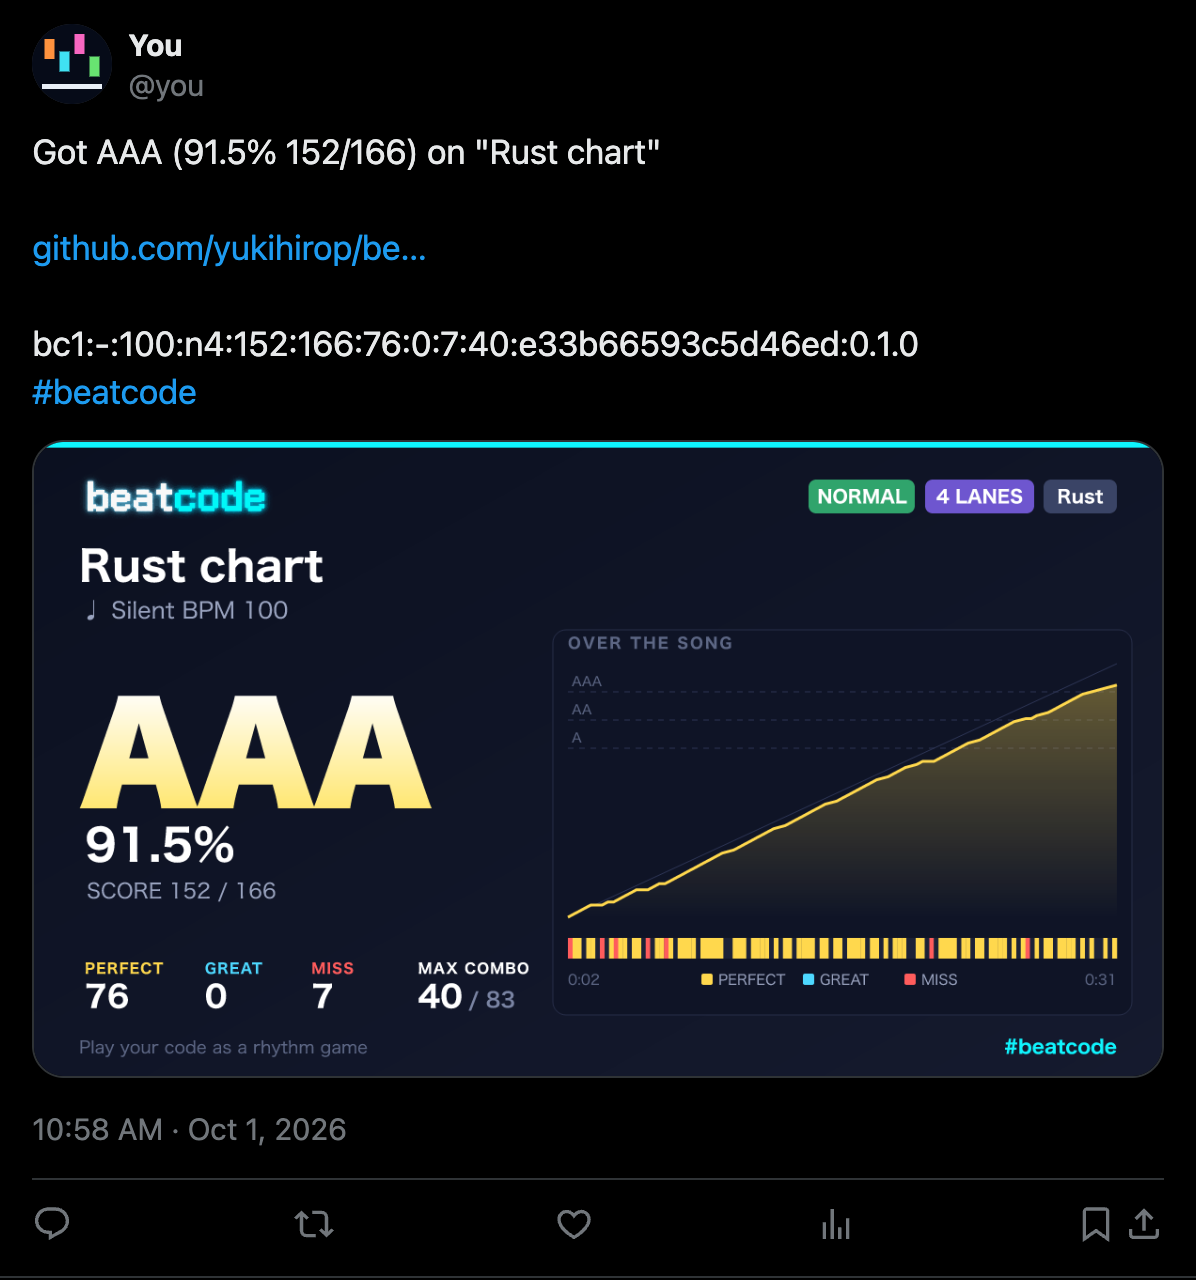
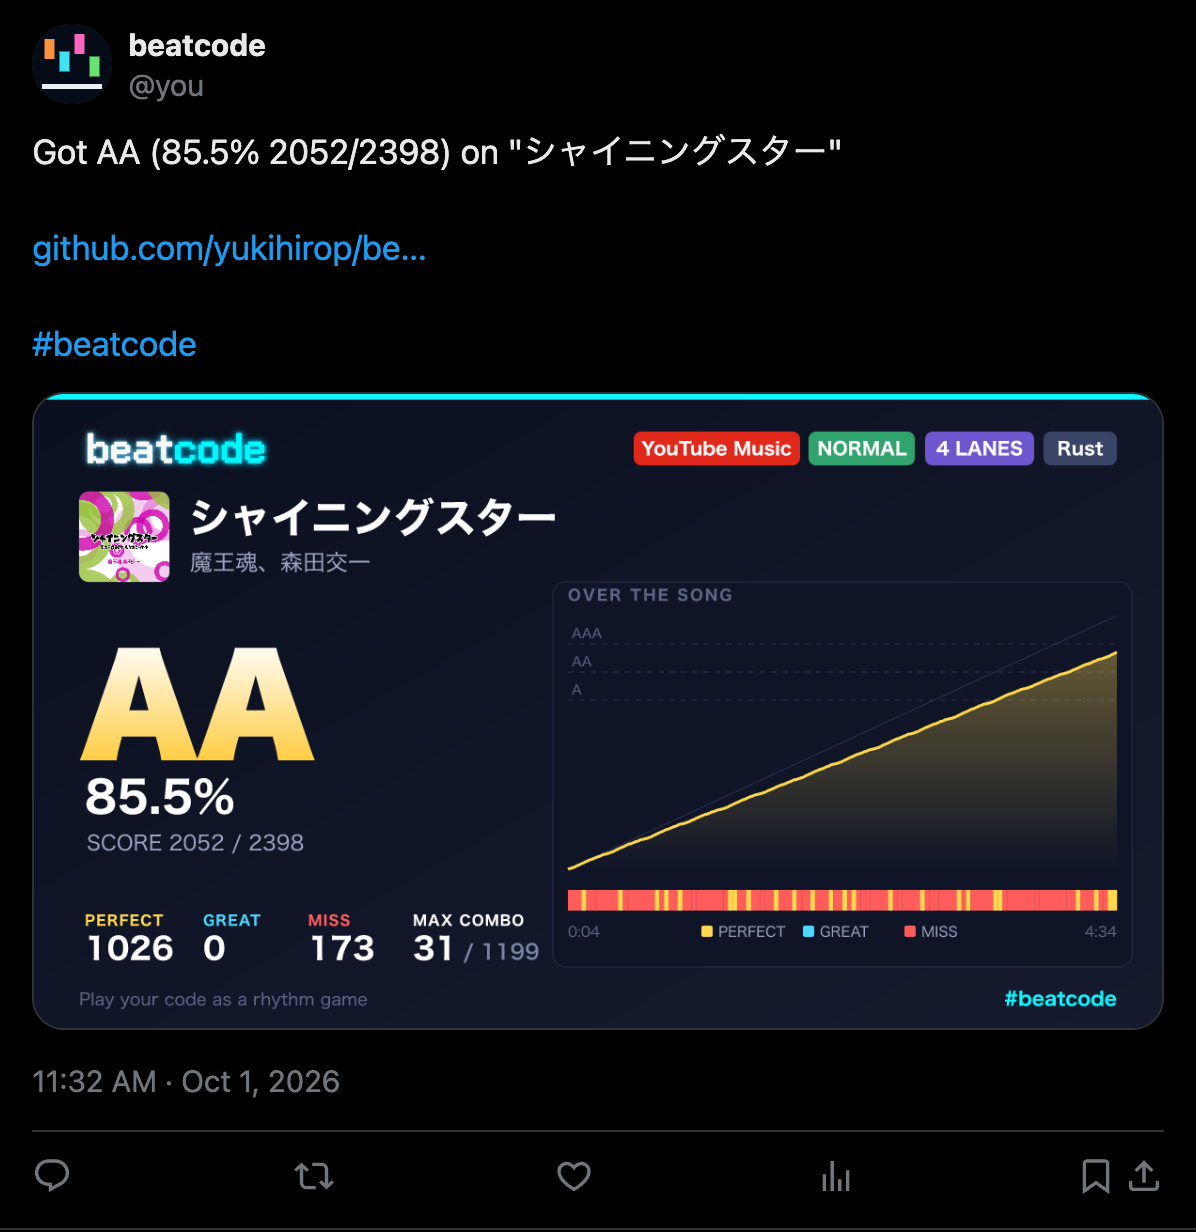
Show a real song on the guide's Share on X card
Play シャイニングスター (魔王魂) through YouTube Music so the card carries
the song title, cover art and the YouTube Music badge. The post is from
"beatcode" and leaves out the ranking line ([share] rank = false).

diff --git a/apps/web/src/i18n/guide.ts b/apps/web/src/i18n/guide.ts
@@ -135,7 +135,7 @@ export const guide: Record<Lang, Guide> = {
         title: "Show it off on X",
         body: [
           "On the results screen, x draws a result card — a 1200×675 PNG with the rank, percentage, judgment counts, graph, difficulty, lanes and language — copies it to the clipboard and opens X’s post page with a draft. Paste the card with ⌘V, then post.",
-          "The draft has the rank and score, the chart’s gist URL, the beatcode URL, a ranking line (bc1:…) and #beatcode. A bundled, AI or Gist chart that isn’t published yet asks secret or public and goes to a gist first. The card is also kept in ~/.cache/beatcode/share/.",
+          "The draft has the rank and score, the chart’s gist URL, the beatcode URL, a ranking line (bc1:…; [share] rank = false in config.toml leaves it out) and #beatcode. A bundled, AI or Gist chart that isn’t published yet asks secret or public and goes to a gist first. The card is also kept in ~/.cache/beatcode/share/.",
         ],
         keys: [
           ["x", "Make the card and open X (on the results screen)"],
@@ -145,8 +145,8 @@ export const guide: Record<Lang, Guide> = {
           {
             file: "share",
             narrow: true,
-            alt: "A preview of the post: Got AAA (91.5% 152/166) on \"Rust chart\", the beatcode URL, the bc1 ranking line and #beatcode, with the result card attached showing AAA, 91.5%, PERFECT 76, MISS 7, max combo 40 and the score graph.",
-            caption: "The card is the one beatcode made for this play; the post around it is a preview, not a screenshot of X. This play was a file given on the command line, so the title reads “Rust chart” and there’s no chart link.",
+            alt: "A preview of the post from beatcode: Got AA (85.5% 2052/2398) on \"シャイニングスター\", the beatcode URL and #beatcode, with the result card attached showing the cover art, シャイニングスター by 魔王魂 and 森田交一, YouTube Music, NORMAL, 4 lanes, AA, 85.5%, PERFECT 1026, MISS 173, max combo 31 and the score graph.",
+            caption: "The card is the one beatcode made for this play of シャイニングスター through YouTube Music; the post around it is a preview, not a screenshot of X. The chart came from a local repo, so there’s no chart link, and the ranking line is turned off. Music: 魔王魂 (maou.audio).",
           },
         ],
       },
@@ -335,7 +335,7 @@ export const guide: Record<Lang, Guide> = {
         title: "X で見せびらかす",
         body: [
           "結果の画面で x を押すと、結果のカード(ランク・%・判定の数・グラフ・難しさ・列数・言語が入った 1200×675 の PNG)を作ってクリップボードに入れ、X の投稿画面を下書き入りで開きます。⌘V でカードを貼って投稿します。",
-          "下書きには、ランクと点、譜面の gist の URL、beatcode の URL、ランキングの印(bc1: の行)、#beatcode が入ります。同梱・AI・Gist の譜面でまだ公開していないものは、secret か public かを聞いて、先に gist へ公開します。カードは ~/.cache/beatcode/share/ にも残ります。",
+          "下書きには、ランクと点、譜面の gist の URL、beatcode の URL、ランキングの印(bc1: の行。config.toml の [share] rank = false で外せます)、#beatcode が入ります。同梱・AI・Gist の譜面でまだ公開していないものは、secret か public かを聞いて、先に gist へ公開します。カードは ~/.cache/beatcode/share/ にも残ります。",
         ],
         keys: [
           ["x", "カードを作って X を開く(結果の画面で)"],
@@ -345,8 +345,8 @@ export const guide: Record<Lang, Guide> = {
           {
             file: "share",
             narrow: true,
-            alt: "投稿のプレビュー。「Rust の譜面」で AAA (91.5% | 152/166)を取りました、beatcode の URL、bc1 のランキングの印、#beatcode。添えたカードには AAA・91.5%・PERFECT 76・MISS 7・最大コンボ 40 と点数のグラフ。",
-            caption: "カードはこのプレイで beatcode が作ったもの。まわりの投稿は見え方のプレビューで、X の画面ではありません。コマンドでファイルを指定して遊んだので、題は「Rust の譜面」で、譜面のリンクはありません。",
+            alt: "beatcode の投稿のプレビュー。「シャイニングスター」で AA (84.6% | 2030/2398)を取りました、beatcode の URL、#beatcode。添えたカードにはジャケット、シャイニングスター(魔王魂、森田交一)、YouTube Music・NORMAL・4 LANES、AA・84.6%・PERFECT 1015・MISS 184・最大コンボ 40 と点数のグラフ。",
+            caption: "カードは YouTube Music でシャイニングスターを流して遊んだときに beatcode が作ったもの。まわりの投稿は見え方のプレビューで、X の画面ではありません。譜面は手元の repo のものなので譜面のリンクはなく、ランキングの印は外しています。音楽：魔王魂(maou.audio)。",
           },
         ],
       },
